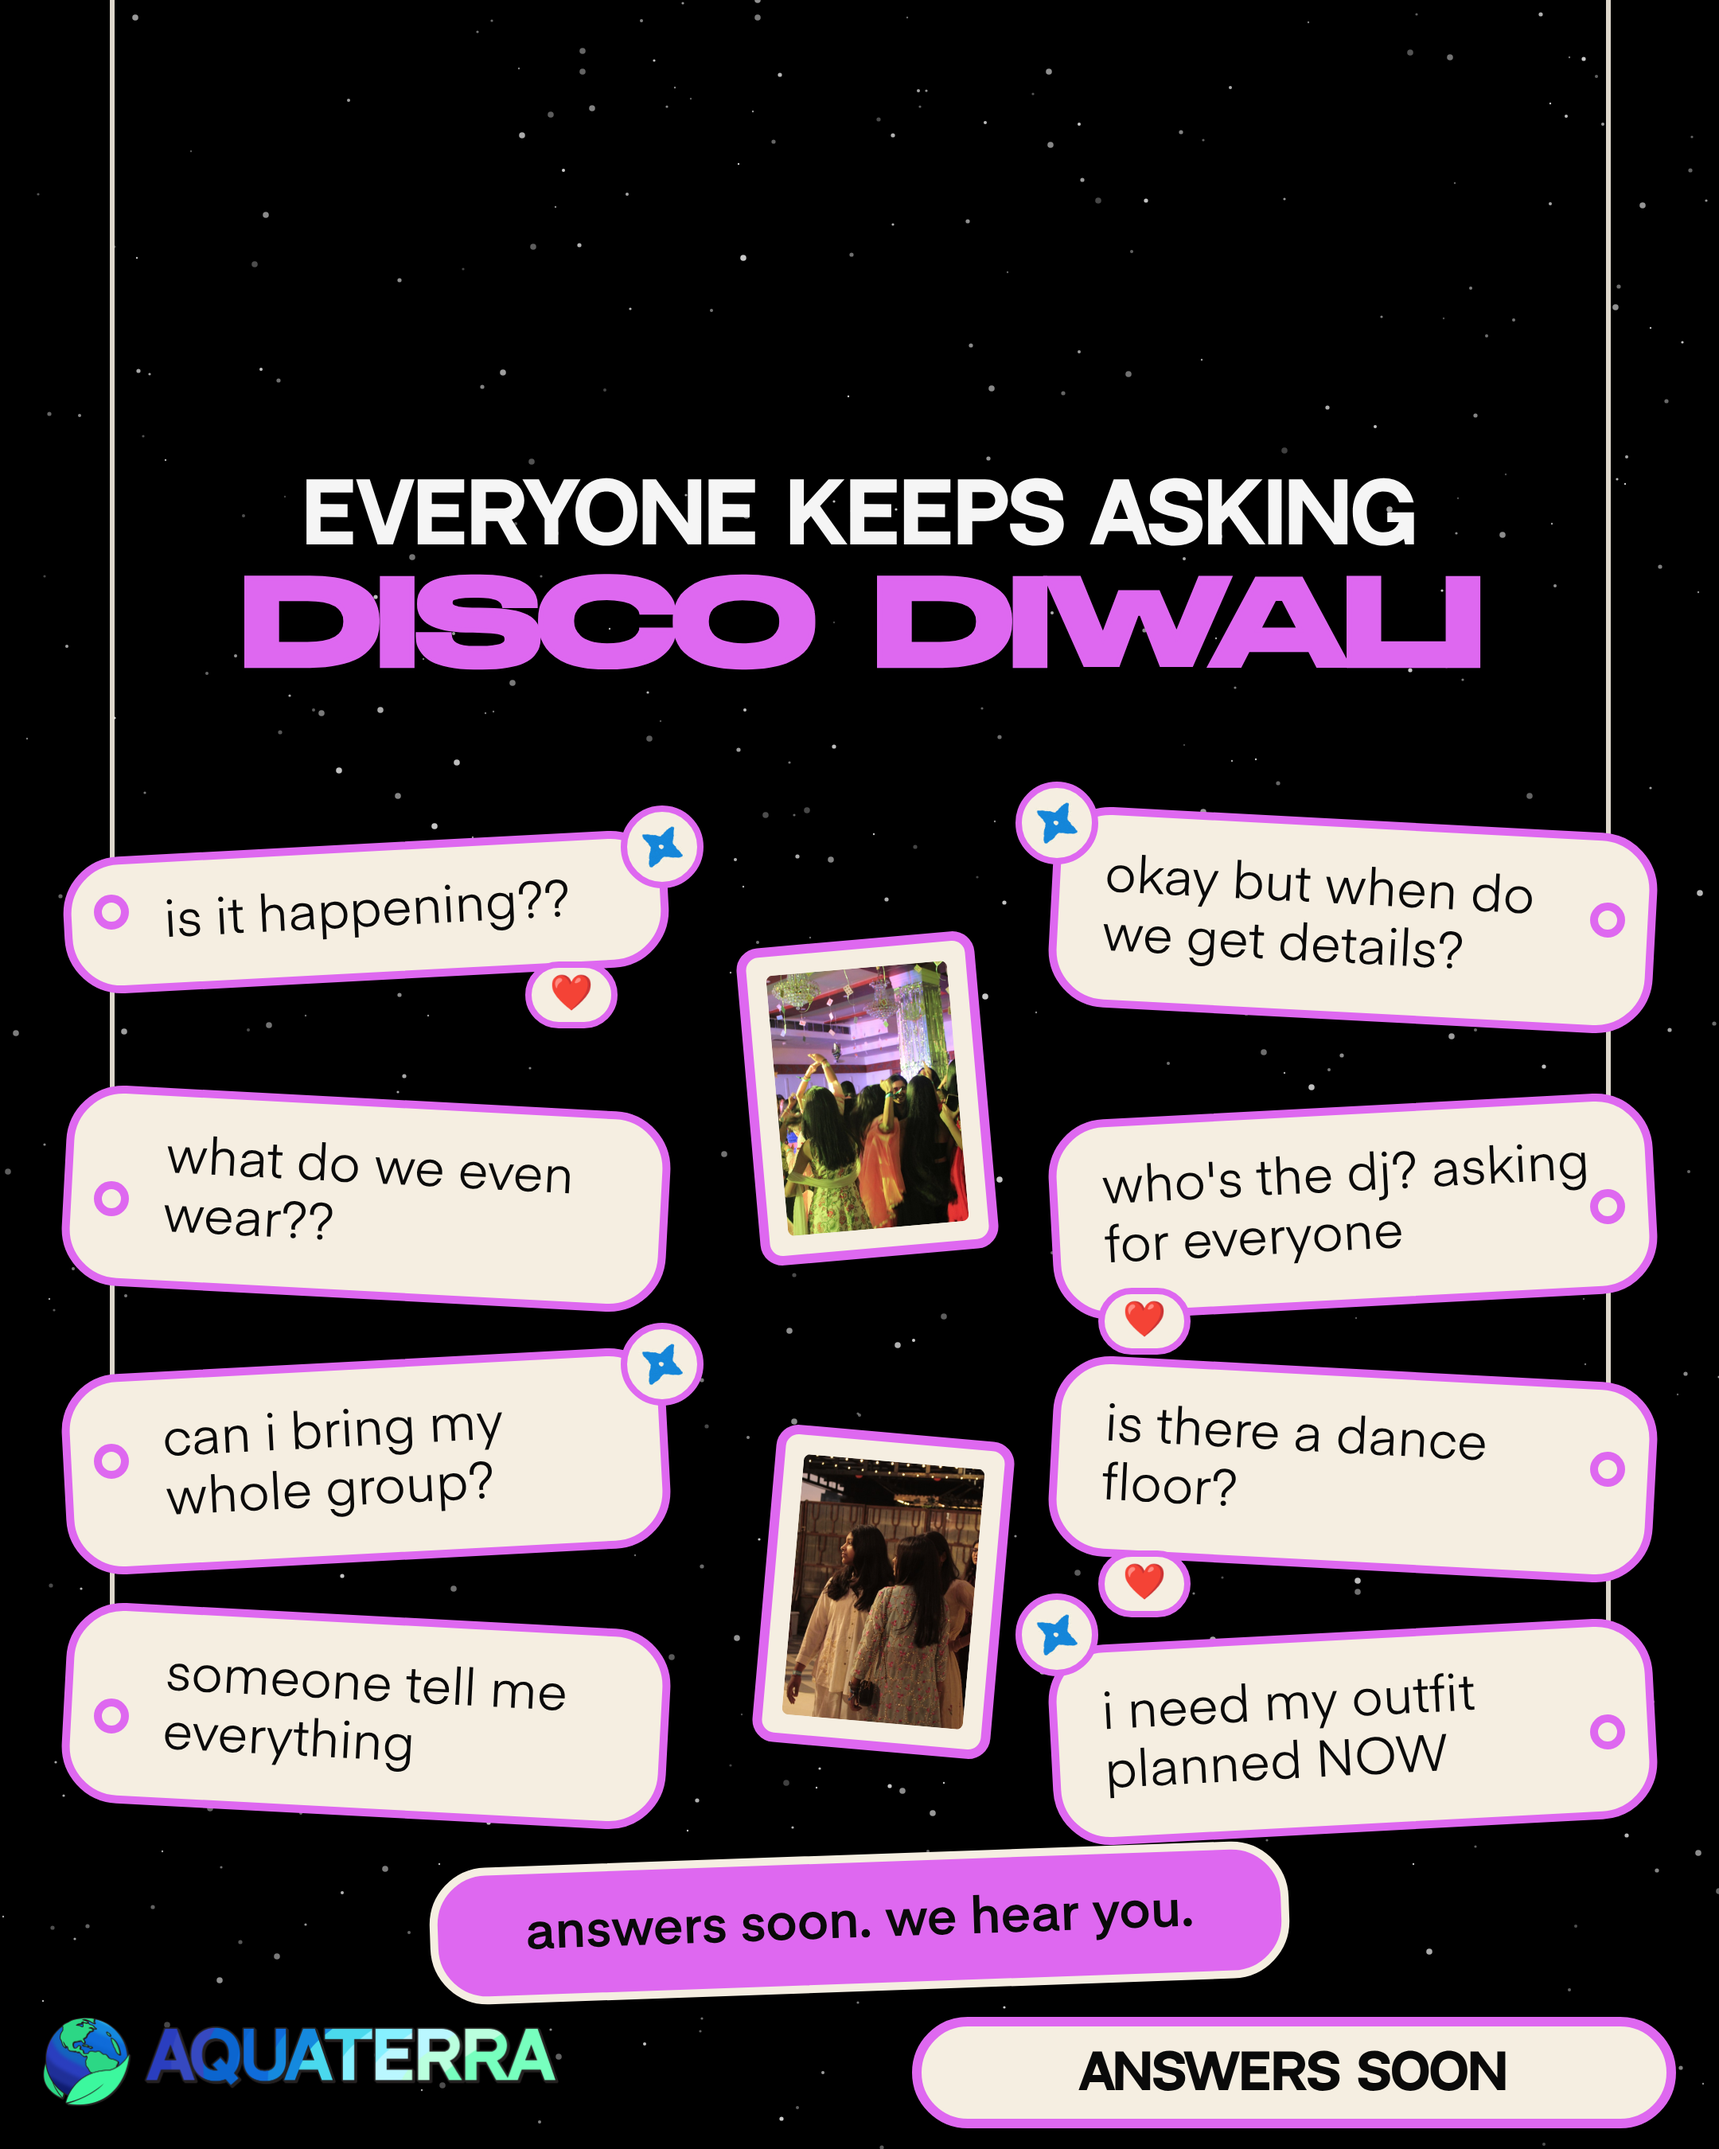
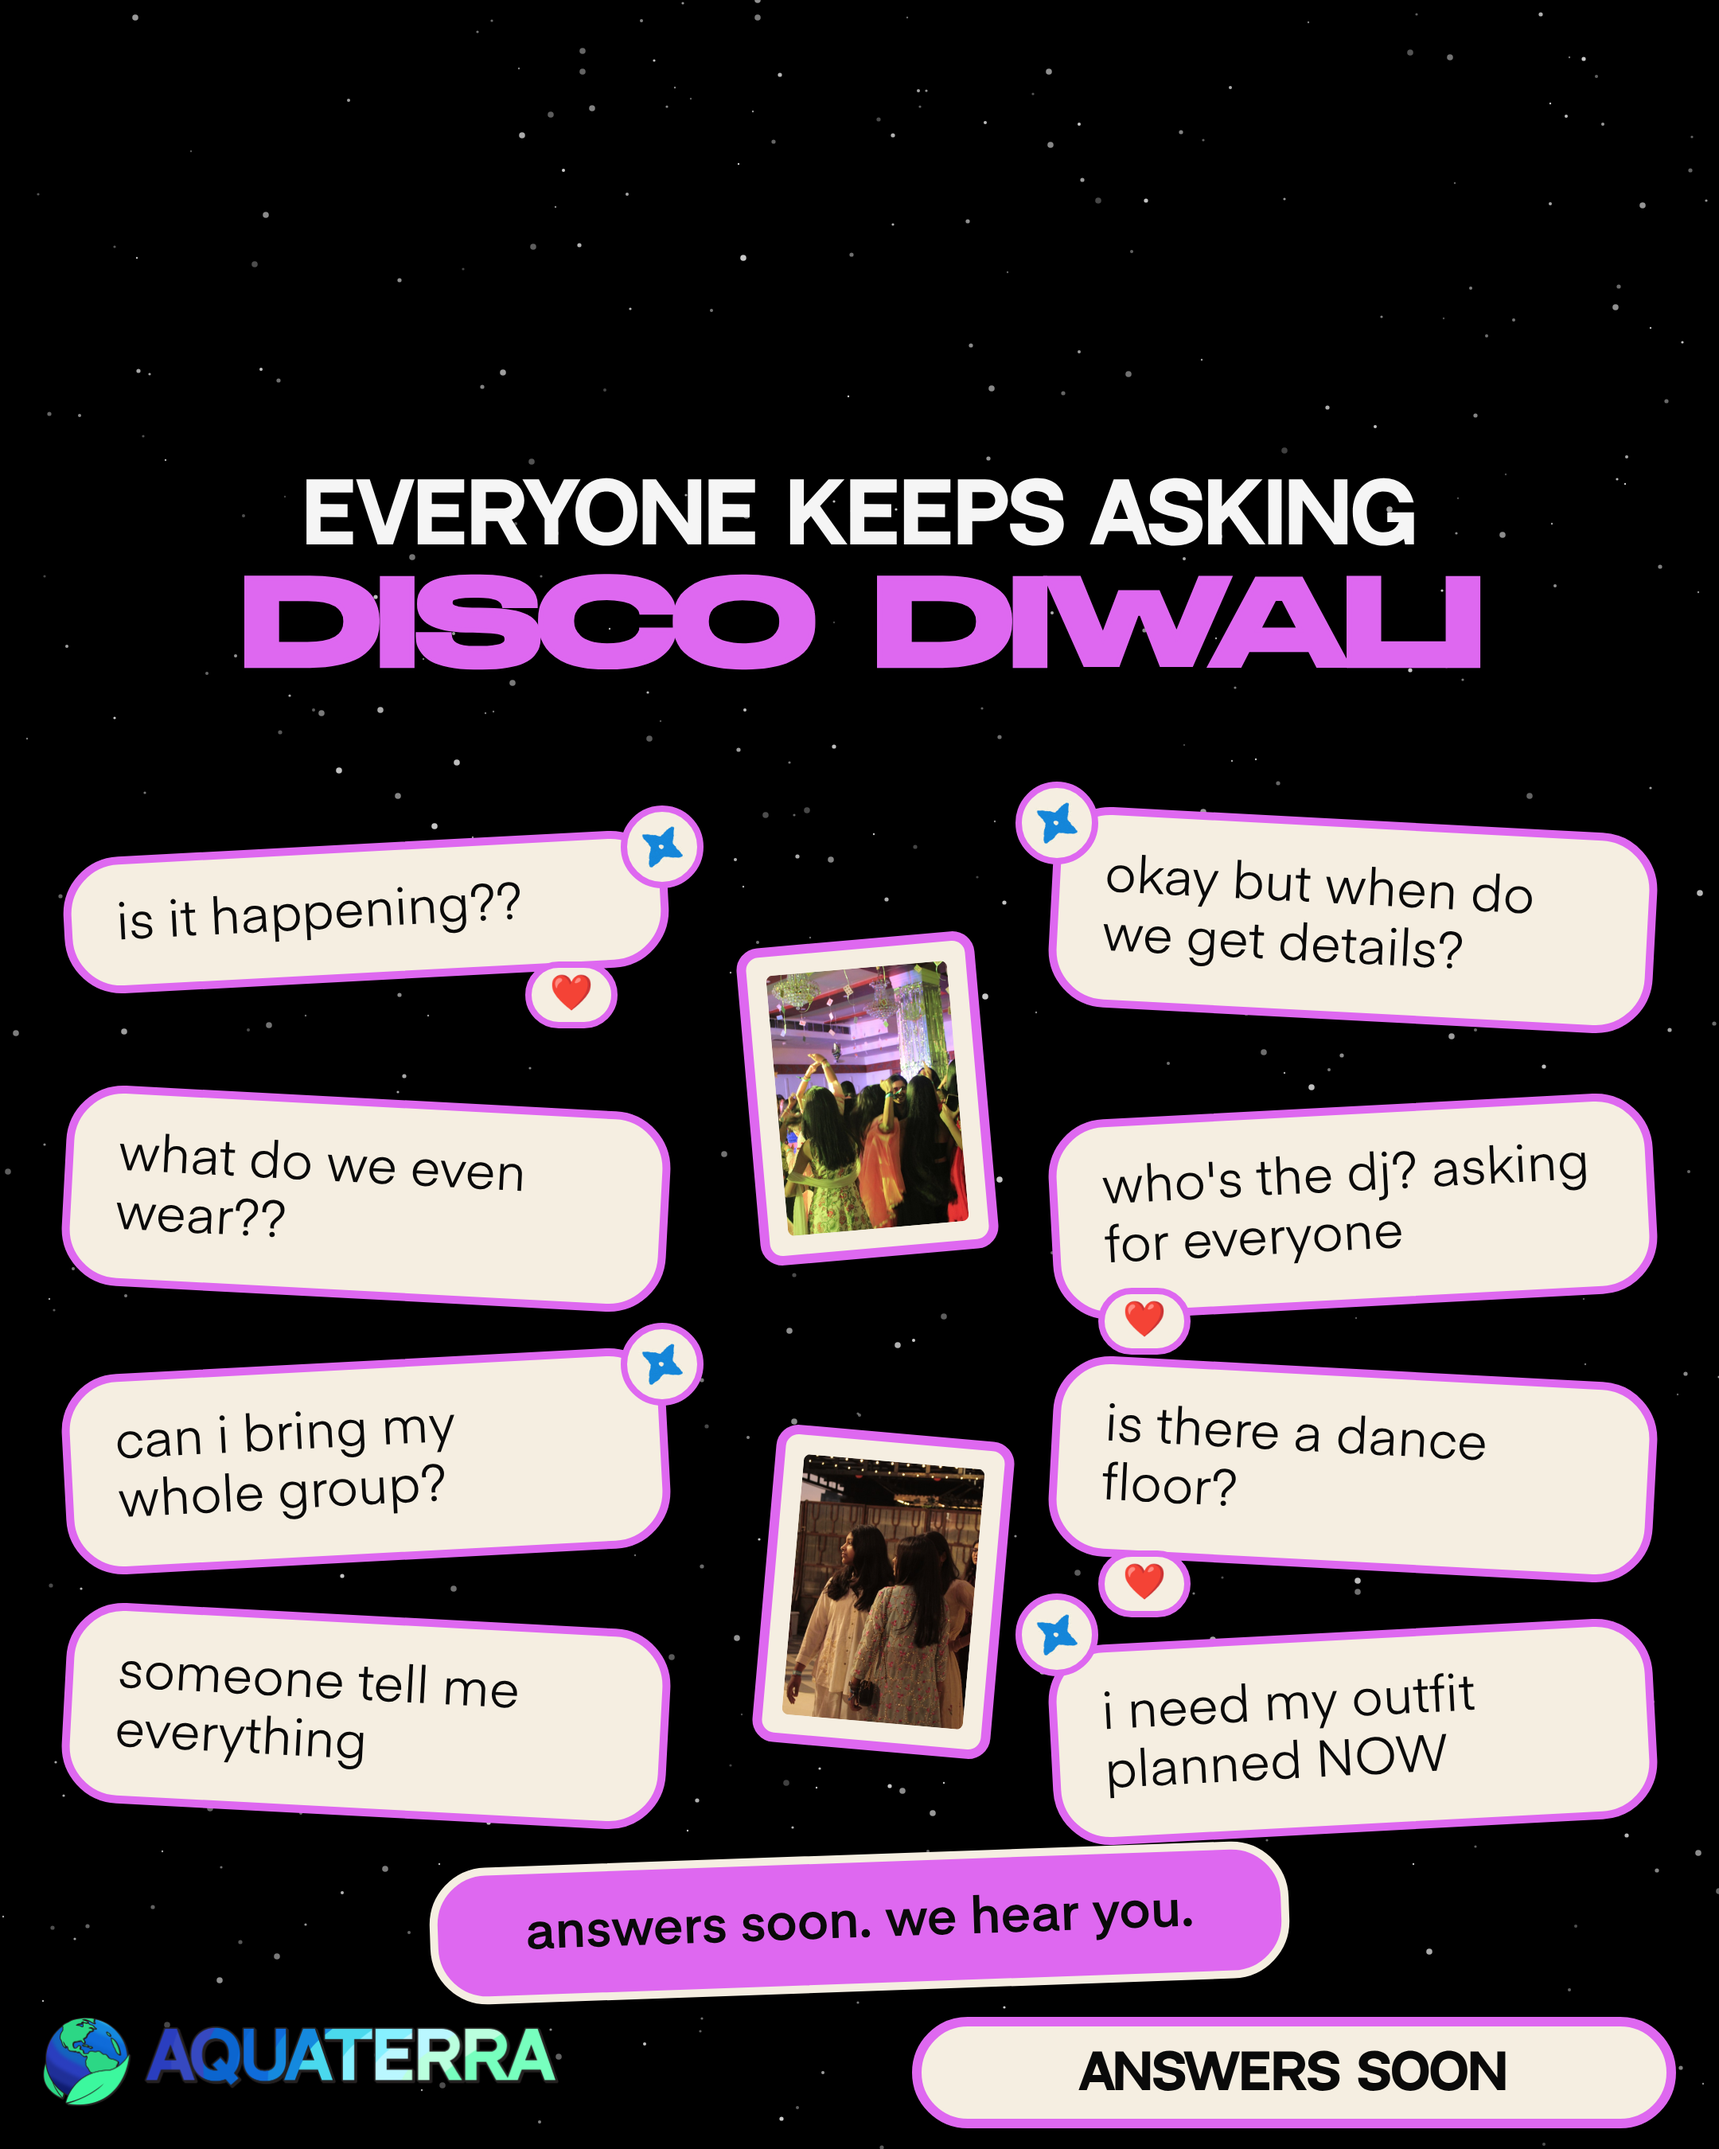
Chat post: remove strings and pins
Claude-Session: https://claude.ai/code/session_01FPyADAfvcX9LT1jBMzRpbG

diff --git a/scratchpad/tt_dd_chat_ask.py b/scratchpad/tt_dd_chat_ask.py
@@ -37,9 +37,6 @@ async def main():
     s = fc.Slide(1, 701)
     im, src = fc.tt.crop_to_alpha("shuriken.png")
     ys = [Y(y) for _, y, *_ in BUBBLES]
-    for side, x in SX.items():                    # one string per side, from the top edge down to just past its last pin
-        last = max(Y(y) for sd, y, *_ in BUBBLES if sd == side) + 70
-        s.add(f'<div style="position:absolute;left:{x - 1}px;top:0;width:3px;height:{last}px;background:{CTA_FILL};opacity:.9;z-index:2"></div>')
     ty = Y(300)
     yb, _ = await s.title("EVERYONE KEEPS ASKING", "DISCO DIWALI", ty, w1=700, w2=780)
     s.allow("t1", "t2")
@@ -50,10 +47,8 @@ async def main():
         h = lines * 40 + 46
         yy = Y(y)
         s.add(f'<div class="measure" data-tag="b{i}" style="position:absolute;left:{x}px;top:{yy}px;width:{w}px;height:{h}px;box-sizing:border-box;transform:rotate({rot}deg);border:5px solid {ORCHID};border-radius:36px;background:{CTA_FILL};'
-              f'display:flex;align-items:center;padding:0 26px 0 {58 if side == 'L' else 28}px;font-family:var(--e);font-size:32px;line-height:1.15;color:{INK};z-index:6">{txt}</div>')
+              f'display:flex;align-items:center;padding:0 28px;font-family:var(--e);font-size:32px;line-height:1.15;color:{INK};z-index:6">{txt}</div>')
         s.el(f"b{i}", *rb(x, yy, w, h, rot))
-        px, py = SX[side], yy + h / 2                 # the pin where the string meets the bubble
-        s.add(f'<div style="position:absolute;left:{px - 11}px;top:{py - 11}px;width:22px;height:22px;box-sizing:border-box;border:5px solid {ORCHID};border-radius:50%;background:{CTA_FILL};z-index:7"></div>')
         if heart:
             hx, hy = (x + w - 90, yy + h - 12) if side == "L" else (x + 30, yy + h - 12)
             s.add(f'<div class="measure" data-tag="h{i}" style="position:absolute;left:{hx}px;top:{hy}px;width:58px;height:42px;box-sizing:border-box;border:4px solid {ORCHID};border-radius:999px;background:{CTA_FILL};display:flex;align-items:center;justify-content:center;font-size:22px;z-index:8">\u2764\ufe0f</div>')
